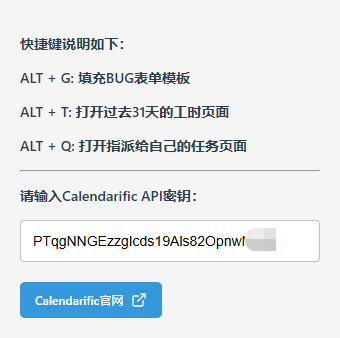
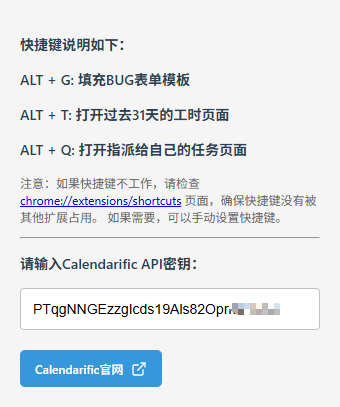
跳转到Chrome自定义快捷键页面

diff --git a/scripts/popup.js b/scripts/popup.js
@@ -4,10 +4,19 @@ document.addEventListener('DOMContentLoaded', () => {
     console.log("DOM 已加载完成");
 
     const apiKeyDOM = document.getElementById("apiKey");
+    const shortcutsLink = document.getElementById("shortcutsLink");
     
     if (!apiKeyDOM) {
         console.error("未找到 id 为 'apiKey' 的元素");
         return;
+    }
+
+    // 添加快捷键链接点击事件
+    if (shortcutsLink) {
+        shortcutsLink.addEventListener('click', (e) => {
+            e.preventDefault();
+            chrome.tabs.create({ url: 'chrome://extensions/shortcuts' });
+        });
     }
 
     // 从存储中获取API密钥

diff --git a/popup.html b/popup.html
@@ -63,7 +63,7 @@
     <h3>ALT + T: 打开过去31天的工时页面</h3>
     <h3>ALT + Q: 打开指派给自己的任务页面</h3>
     <p style="color: #666; font-size: 12px; margin-top: 10px;">
-        注意：如果快捷键不工作，请检查 chrome://extensions/shortcuts 页面，确保快捷键没有被其他扩展占用。
+        注意：如果快捷键不工作，请检查 <a href="#" id="shortcutsLink">chrome://extensions/shortcuts</a> 页面，确保快捷键没有被其他扩展占用。
         如果需要，可以手动设置快捷键。
     </p>
     <hr>

diff --git a/README.md b/README.md
@@ -1,2 +1,37 @@
-# Redmine
-Redmine项目管理平台CRX插件
+## 插件安装步骤（以Chrome为例）：
+1. 从SVN上拉取“Redmine插件”文件夹（URL：https://192.168.30.200/svn/研发中心/技术积累/软件开发部/工具软件/Redmine插件）
+
+2. 打开浏览器设置，找到拓展程序
+
+3. 打开右上角“开发者模式”
+
+4. 按F5刷新页面
+
+5. 将“Redmine Plugin”文件夹拖入页面安装
+
+   
+## 插件更新步骤：
+1. 从SVN上拉取最新的插件
+
+2. 打开浏览器拓展程序页面
+
+3. 点击此拓展程序右下角的“更新”按钮
+
+   
+## 插件使用注意事项：
+1. 填充BUG表单模板需要先在BUG表单页面点击编辑，进入编辑状态后再 ALT + G 进行填充
+
+2. ALT + T 打开的工时页面没有颜色显示，大多是因为网络原因，Get数据比较慢，等待一会
+
+3. 点击插件图标可以看到快捷键说明
+![示例图片](./images/示例图片2.png)
+
+   
+## Calendarific API申请指南：
+1. 大家添加完插件之后，按步骤将拓展挂在浏览器上
+![示例图片](./images/示例图片1.png)
+2. 点开拓展，点击进入官网
+![示例图片](./images/示例图片2.png)
+3. 注册完账号之后可以在后台看到API秘钥
+![示例图片](./images/示例图片3.png)
+4. 把秘钥复制到拓展窗口页面的输入框中，然后刷新页面即可
